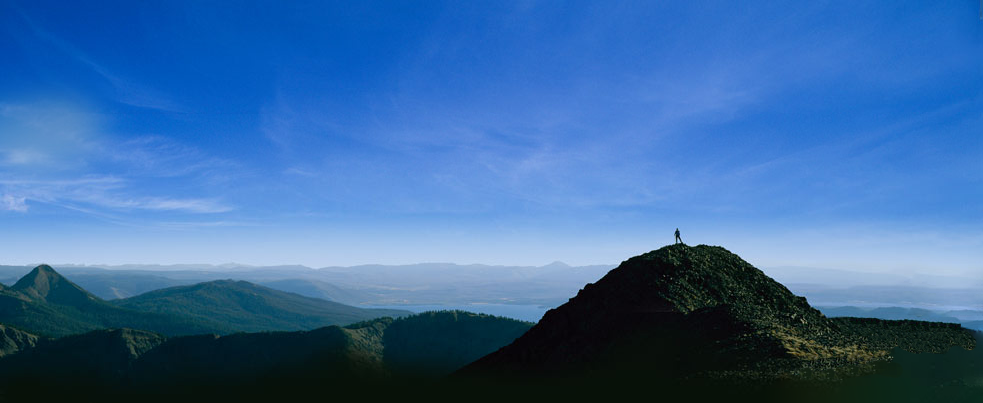
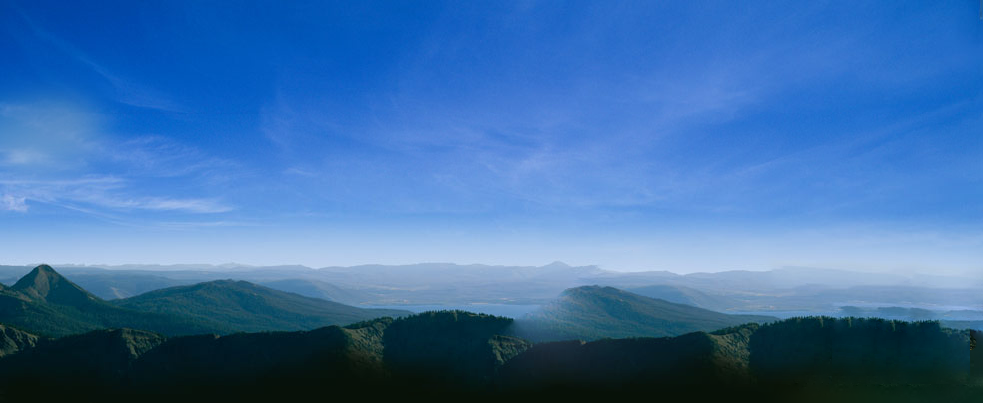
feat: good enough parallax for now..

Changed region(s): [[0.4578, 0.5658, 1.0, 0.9529]]

diff --git a/n07/index.html b/n07/index.html
@@ -51,30 +51,27 @@
 			window.loaded = window.loaded || [];
 			window.loaded.push(() => {
 				const bg = document.getElementById("bg");
+				const mid = document.getElementById("mid");
 				const fg = document.getElementById("fg");
 				const container = document.getElementById("bg-container");
 				let lastPos = 0;
 				const anim = () => {
 					const pos = window.scrollY;
 					if (pos !== lastPos) {
-						bg.style.transform = `scale3d(1,1,1) translateY(${
-							pos * 0.75
-						}px)`;
-						fg.style.transform = `scale3d(1,1,1) translateY(${
-							pos * 0.5
-						}px)`;
-						// container.style.filter = `blur(${pos * 0.025}px)`;
+						container.style.setProperty("--scroll", pos + "px");
 						const bottom = fg.getBoundingClientRect().bottom;
 						const rect = bg.getBoundingClientRect();
+						const midRect = mid.getBoundingClientRect();
 						const bottomInBg = bottom - rect.top - 8;
+						const bottomInMid = bottom - midRect.top - 8;
 						bg.style.maskImage = `linear-gradient(to bottom, black ${bottomInBg}px, transparent ${bottomInBg}px)`;
+						mid.style.maskImage = `linear-gradient(to bottom, black ${bottomInMid}px, transparent ${bottomInMid}px)`;
 					}
 					lastPos = pos;
-					// requestAnimationFrame(anim);
+					requestAnimationFrame(anim);
 				};
 
-				// requestAnimationFrame(anim);
-				setInterval(anim, 1000 / 60);
+				requestAnimationFrame(anim);
 			});
 		</script>
 		<script>
@@ -143,6 +140,7 @@
 	<body>
 		<div id="bg-container">
 			<img src="./img/landscape-bg.png" id="bg" />
+			<img src="./img/landscape-mid.png" id="mid" />
 			<img src="./img/landscape-fg.png" id="fg" />
 		</div>
 		<h1 id="clarity">The "Wow" never stopped.</h1>

diff --git a/n07/style.css b/n07/style.css
@@ -13,24 +13,25 @@ body {
 }
 
 #bg,
+#mid,
 #fg {
 	position: absolute;
 	top: 0;
 	left: 0;
-	transition: transform 0.01s;
 	-webkit-transform: translateZ(0);
 	transform: translateZ(0);
 }
 
-/* bg.style.transform = `translateY(${scroll * 0.75}px)`;
-fg.style.transform = `translateY(${scroll * 0.5}px)`; */
-
 #bg {
-	transform: translateY(calc(var(--scroll) * 0.75));
+	transform: translateY(calc(var(--scroll) * 0.7));
+}
+
+#mid {
+	transform: translateY(calc(var(--scroll) * 0.6));
 }
 
 #fg {
-	transform: translateY(calc(var(--scroll) * 0.5));
+	transform: translateY(var(--fg-pos));
 }
 
 #bg-container {
@@ -38,8 +39,11 @@ fg.style.transform = `translateY(${scroll * 0.5}px)`; */
 	position: absolute;
 	top: 0;
 	left: 0;
+	width: 983px;
+	height: 403px;
 	-webkit-transform: translateZ(0);
 	transform: translateZ(0);
+	--fg-pos: calc(var(--scroll) * 0.5);
 }
 
 h1,
